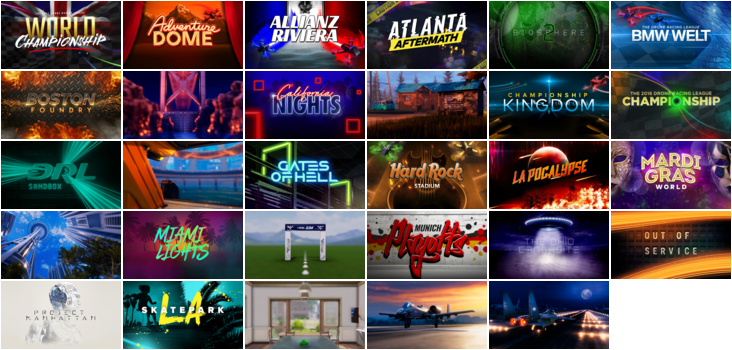
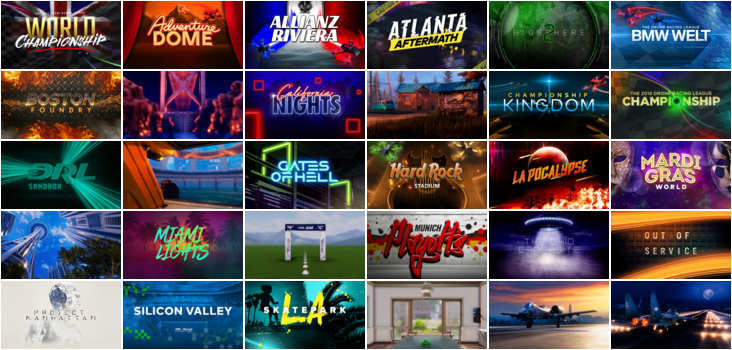
Adds new SILICON VALLEY map its tracks.

Changed region(s): [[0.1503, 0.8, 1.0, 1.0]]

diff --git a/frontend/src/layouts/MainLayout.vue b/frontend/src/layouts/MainLayout.vue
@@ -284,8 +284,11 @@ tbody .td-borders-font-size16 {
   position: absolute;
 }
 
+// AssetStudioGUI -> Filter Type = Texture2D -> Export -> "Filtered assets"
+// exported maps are named like background*
 // montage -resize 120 map-* -auto-orient -geometry +1+1 -background none -format png maps.png
 // http://www.spritecow.com/
+// then use the tool pngquant to make the source pngs smaller
 .map-2017-world-championship {
   object-fit: none;
   object-position: -1px -1px;
@@ -461,30 +464,37 @@ tbody .td-borders-font-size16 {
   height: 68px !important;
 }
 
-.map-skatepark-la {
+.map-silicon-valley {
   object-fit: none;
   object-position: -123px -281px;
   width: 120px !important;
   height: 68px !important;
 }
 
-.map-the-house {
+.map-skatepark-la {
   object-fit: none;
   object-position: -245px -281px;
   width: 120px !important;
   height: 68px !important;
 }
 
-.map-u-s--air-force-boneyard {
+.map-the-house {
   object-fit: none;
   object-position: -367px -281px;
   width: 120px !important;
   height: 68px !important;
 }
 
-.map-u-s--air-force-night-mode {
+.map-u-s--air-force-boneyard {
   object-fit: none;
   object-position: -489px -281px;
+  width: 120px !important;
+  height: 68px !important;
+}
+
+.map-u-s--air-force-night-mode {
+  object-fit: none;
+  object-position: -611px -281px;
   width: 120px !important;
   height: 68px !important;
 }

diff --git a/frontend/src/components/NewsDialog.vue b/frontend/src/components/NewsDialog.vue
@@ -13,6 +13,21 @@
         </q-banner>
         <q-separator />
         <q-card style="max-height: 40rem" class="scroll">
+<!-- 2.1.0 Release -->
+          <q-card>
+            <q-card-section class="q-py-none q-px-sm row dialog-news-content-header">
+              <div class="text-h5 q-py-sm">2.1.0 Release</div><q-space />
+              <div style="padding-top: 5px">{{ getDateDifferenceToNowByGermanTimezone('2023-05-23 01:20') }}</div>
+            </q-card-section>
+            <q-card-section class="q-py-sm q-pl-lg dialog-news-content">
+              <div class="text-h6">Features</div>
+              <ul class="q-my-sm" style="font-size: 1rem">
+                <li>Adds new SILICON VALLEY map and its tracks
+                </li>
+              </ul>
+            </q-card-section>
+          </q-card>
+          <q-separator />
 <!-- 2.0.0 Release -->
           <q-card>
             <q-card-section class="q-py-none q-px-sm row dialog-news-content-header">

diff --git a/backend/src/main/java/de/gregord/drlleaderboardbackend/dataupdater/TracksDataUpdater.java b/backend/src/main/java/de/gregord/drlleaderboardbackend/dataupdater/TracksDataUpdater.java
@@ -25,9 +25,7 @@ import java.util.*;
 import java.util.function.Function;
 import java.util.stream.Collectors;
 
-@EnableScheduling
 @Component
-@Aspect
 public class TracksDataUpdater {
     public static Logger LOG = LoggerFactory.getLogger(TracksDataUpdater.class);
 //    public static String endpointMaps = "https://api.drlgame.com/progression/maps?token={token}";
@@ -82,6 +80,8 @@ public class TracksDataUpdater {
 
         mapIdToMapName.put("MP-0c6", "MULTIGP");
 
+        mapIdToMapName.put("MP-cb7", "SILICON VALLEY");
+
         mapIdToParentCategory.put("MP-3fd", "DRL MAPS");
         mapIdToParentCategory.put("MP-693", "DRL MAPS");
         mapIdToParentCategory.put("MP-2e1", "DRL MAPS");
@@ -100,6 +100,7 @@ public class TracksDataUpdater {
         mapIdToParentCategory.put("MP-92e", "DRL MAPS");
         mapIdToParentCategory.put("MP-ad9", "DRL MAPS");
         mapIdToParentCategory.put("MP-bf7", "DRL MAPS");
+        mapIdToParentCategory.put("MP-cb7", "DRL MAPS");
 
         mapIdToParentCategory.put("MP-2cb", "ORIGINALS");
         mapIdToParentCategory.put("MP-f95", "ORIGINALS");
@@ -159,15 +160,13 @@ public class TracksDataUpdater {
     }
 
     @Transactional
-    @EventListener(ApplicationReadyEvent.class)
-    @Order(100)
     @CacheEvict(value = "tracks", allEntries = true)
     public void initialize() {
         long count = tracksRepository.count();
-        if(count <= 0) {
+//        if(count <= 0) {
             LOG.info("No tracks found in database, initializing...");
             updateMapsData();
-        }
+//        }
     }
 
     @Transactional
@@ -282,6 +281,10 @@ public class TracksDataUpdater {
                 Collection<Track> byTrackNotIn = tracksRepository.findByIdNotIn(tracks.stream().map(Track::getId).collect(Collectors.toList()));
                 LOG.info("Deleting " + byTrackNotIn.size() + " tracks");
                 LOG.info(byTrackNotIn.stream().map(Track::getName).collect(Collectors.joining(", ")));
+                byTrackNotIn.stream().forEach(track -> leaderboardRepository.findByTrackId(track.getId()).forEach( entry -> {
+                    leaderboardRepository.deleteBeatenByEntriesByLeaderboardId(entry.getId());
+                    leaderboardRepository.delete(entry);
+                }));
                 tracksRepository.deleteAll(byTrackNotIn);
             }
         } catch (Exception e) {

diff --git a/backend/src/main/java/de/gregord/drlleaderboardbackend/repositories/LeaderboardRepository.java b/backend/src/main/java/de/gregord/drlleaderboardbackend/repositories/LeaderboardRepository.java
@@ -7,6 +7,7 @@ import org.springframework.cache.annotation.Cacheable;
 import org.springframework.data.domain.Pageable;
 import org.springframework.data.domain.Sort;
 import org.springframework.data.jpa.repository.JpaRepository;
+import org.springframework.data.jpa.repository.Modifying;
 import org.springframework.data.jpa.repository.Query;
 import org.springframework.data.repository.query.Param;
 import org.springframework.stereotype.Repository;
@@ -35,6 +36,15 @@ public interface LeaderboardRepository extends JpaRepository<LeaderboardEntry, L
     Collection<LeaderboardEntry> findByTrackIdAndPlayerIdIn(Long trackId, Collection<String> playerIds);
 
     List<ReplaysByTrackView> findByTrackIdAndIsInvalidRunFalse(Long trackId, Sort sort);
+
+    List<LeaderboardEntry> findByTrackId(Long trackId);
+
+    @Modifying
+    @Query(value = """
+            DELETE FROM leaderboards_beaten_by
+            WHERE leaderboard_id = :leaderboardId or beaten_by_leaderboard_id = :leaderboardId
+            """, nativeQuery = true)
+    void deleteBeatenByEntriesByLeaderboardId(Long leaderboardId);
 
     @Cacheable("overallranking")
     @Query(value = """

diff --git a/backend/src/main/java/de/gregord/drlleaderboardbackend/dataupdater/LeaderboardDataScheduler.java b/backend/src/main/java/de/gregord/drlleaderboardbackend/dataupdater/LeaderboardDataScheduler.java
@@ -1,0 +1,30 @@
+package de.gregord.drlleaderboardbackend.dataupdater;
+
+import org.springframework.boot.context.event.ApplicationReadyEvent;
+import org.springframework.context.event.EventListener;
+import org.springframework.core.annotation.Order;
+import org.springframework.scheduling.annotation.EnableScheduling;
+import org.springframework.scheduling.annotation.Scheduled;
+import org.springframework.stereotype.Component;
+
+@EnableScheduling
+@Component
+public class LeaderboardDataScheduler {
+
+    LeaderboardUpdater leaderboardUpdater;
+
+    public LeaderboardDataScheduler(LeaderboardUpdater tracksDataUpdater) {
+        this.leaderboardUpdater = tracksDataUpdater;
+    }
+
+    @EventListener(ApplicationReadyEvent.class)
+    @Order(200)
+    public void initialize() {
+        leaderboardUpdater.initialize();
+    }
+
+    @Scheduled(cron = "${app.data-updater.leaderboards.cron}")
+    public void updateLeaderboard(){
+        leaderboardUpdater.updateLeaderboard();
+    }
+}

diff --git a/backend/src/main/java/de/gregord/drlleaderboardbackend/dataupdater/TracksDataScheduler.java b/backend/src/main/java/de/gregord/drlleaderboardbackend/dataupdater/TracksDataScheduler.java
@@ -1,0 +1,30 @@
+package de.gregord.drlleaderboardbackend.dataupdater;
+
+import org.springframework.boot.context.event.ApplicationReadyEvent;
+import org.springframework.context.event.EventListener;
+import org.springframework.core.annotation.Order;
+import org.springframework.scheduling.annotation.EnableScheduling;
+import org.springframework.scheduling.annotation.Scheduled;
+import org.springframework.stereotype.Component;
+
+@EnableScheduling
+@Component
+public class TracksDataScheduler {
+
+    TracksDataUpdater tracksDataUpdater;
+
+    public TracksDataScheduler(TracksDataUpdater tracksDataUpdater) {
+        this.tracksDataUpdater = tracksDataUpdater;
+    }
+
+    @EventListener(ApplicationReadyEvent.class)
+    @Order(100)
+    public void initialize() {
+        tracksDataUpdater.initialize();
+    }
+
+    @Scheduled(cron = "${app.data-updater.tracks.cron}")
+    public void updateMapsData(){
+        tracksDataUpdater.updateMapsData();
+    }
+}

diff --git a/backend/src/main/java/de/gregord/drlleaderboardbackend/dataupdater/LeaderboardUpdater.java b/backend/src/main/java/de/gregord/drlleaderboardbackend/dataupdater/LeaderboardUpdater.java
@@ -109,8 +109,6 @@ public class LeaderboardUpdater {
         this.cacheManager = cacheManager;
     }
 
-    @EventListener(ApplicationReadyEvent.class)
-    @Order(200)
     @Caching(evict = {
             @CacheEvict(value = "leaderboardbyplayername", allEntries = true),
             @CacheEvict(value = "overallranking", allEntries = true),
@@ -129,7 +127,6 @@ public class LeaderboardUpdater {
         }
     }
 
-    @Scheduled(cron = "${app.data-updater.leaderboards.cron}")
     @Caching(evict = {
             @CacheEvict(value = "leaderboardbyplayername", allEntries = true),
             @CacheEvict(value = "overallranking", allEntries = true),
